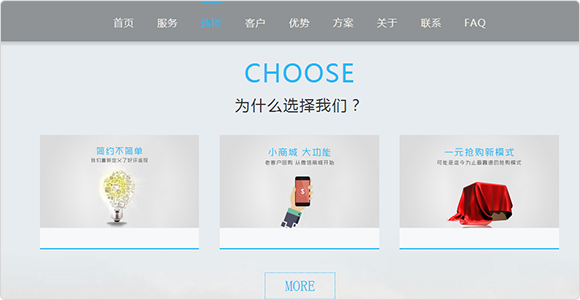
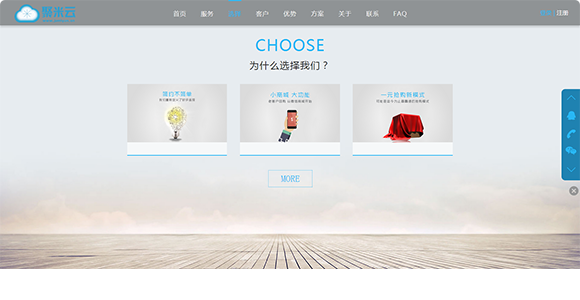
5.21

diff --git a/css/index.less b/css/index.less
@@ -1,5 +1,4 @@
 body{
-  position: relative;
   margin: 0;
 }
 #wrap{
@@ -10,12 +9,20 @@ body{
     margin: 50px 0;
     text-align: center;
   }
+  .title2{
+    font-size: 14px;
+    color:#999;
+    margin-bottom: 60px;
+  }
+  .title1{
+    margin: 50px 0 30px;
+  }
 }
-//.section-wrap{ width:100%;min-height: ~"calc(100vh - 110px)";overflow:visible;transition:transform 1s cubic-bezier(0.86,0,0.03,1);}
-.section-wrap .section{ position:relative; width:100%;  background-repeat:no-repeat;}
-.section-wrap .section-1{height:590px;}
-.section-wrap .section-2{ background-color:#ffffff;height:780px;}
-.section-wrap .section-3{ background-color:#ffffff;height:540px;}
+.section-wrap{ width:100%;min-height: ~"calc(100vh - 110px)";}
+.section-wrap .section{ width:100%;}
+.section-wrap .section-1{height:584px;}
+.section-wrap .section-2{ background-color:#fff;height:600px;}
+.section-wrap .section-3{ background: url("../images/bg04.png") no-repeat center center;background-size:100%;height:540px;}
 .section-wrap .section-4{ background-color:#f8f8f8;height:670px;}
 #myCarousel{
   img{
@@ -25,30 +32,110 @@ body{
 .section-2{
   .all{
     width:100%;
-    height:66vh;
-    background: url("../images/border.png")no-repeat center;
-    background-size: 100%;
-    position: relative;
-    div{
-      &:first-child{
-        position: absolute;
-        top:35%;
-        left:10%;
+    ul{
+      display:-webkit-box;
+      display:-webkit-flex;
+      display:flex;
+
+      li{
+        width:270px;
+        margin-right: 30px;
+        &:last-child{
+          margin-right: 0;
+        }
+        div{
+          text-align: center;
+          color:#666;
+        }
+        .first{
+          display:-webkit-box;
+          display:-webkit-flex;
+          display:flex;
+          align-items: center;
+          justify-content: center;
+          margin:10px 0 60px;
+          .son{
+            display:-webkit-box;
+            display:-webkit-flex;
+            display:flex;
+            align-items: center;
+            justify-content: center;
+            width:108px;
+            height:108px;
+            div{
+              width:90px;
+              height:90px;
+              border:1px solid #0ca8f5;
+              border-radius: 50%;
+            }
+          }
+        }
+        .second{
+          font-size: 16px;
+          margin-bottom: 40px;
+          font-weight: bold;
+        }
+        .three{
+          font-size: 12px;
+          line-height: 2;
+          text-align: left;
+        }
+        &:first-child{
+          .first>.son>div{
+            background: url("../images/icon014.png")no-repeat center center;
+          }
+        }
+        &:first-child:hover{
+         .first>.son>div{
+              width:108px;
+              height:108px;
+              border: 1px solid #0ca8f5;
+              background: url("../images/icon015.png")no-repeat center center;
+           transition: all ease-in-out 0.20s,background ease-in-out 0.05s;
+         }
+         }
+        &:nth-child(2){
+          .first>.son>div{
+            background: url("../images/icon016.png")no-repeat center center;
+          }
+        }
+      &:nth-child(2):hover{
+        .first>.son>div{
+          width:108px;
+          height:108px;
+          border: 1px solid #0ca8f5;
+          background: url("../images/icon017.png")no-repeat center center;
+          transition: all ease-in-out 0.20s,background ease-in-out 0.05s;
+        }
       }
-      &:nth-child(2){
-        position: absolute;
-        top:5%;
-        left:44%;
-      }
-      &:nth-child(3){
-        position: absolute;
-        top:30%;
-        right:12%;
-      }
-      &:last-child{
-        position: absolute;
-        top:66%;
-        left:44%;
+        &:nth-child(3){
+          .first>.son>div{
+            background: url("../images/icon018.png")no-repeat center center;
+          }
+        }
+        &:nth-child(3):hover{
+          .first>.son>div{
+            width:108px;
+            height:108px;
+            border: 1px solid #0ca8f5;
+            background: url("../images/icon019.png")no-repeat center center;
+            transition: all ease-in-out 0.20s,background ease-in-out 0.05s;
+          }
+        }
+        &:last-child{
+          .first>.son>div{
+            background: url("../images/icon20.png")no-repeat center center;
+          }
+        }
+        &:last-child:hover{
+          .first>.son>div{
+            width:108px;
+            height:108px;
+            border: 1px solid #0ca8f5;
+            background: url("../images/icon021.png")no-repeat center center;
+            transition: all ease-in-out 0.20s,background ease-in-out 0.05s;
+          }
+        }
       }
     }
   }
@@ -61,6 +148,7 @@ body{
     flex-wrap:wrap;
     justify-content: space-between;
     li{
+      background: #fff;
       width:360px;
       height:150px;
       border: 1px solid #e5e5e5;
@@ -94,56 +182,9 @@ body{
   }
 }
 .section-4{
-  .case{
-    display:-webkit-box;
-    display:-webkit-flex;
-    display:flex;
-    flex-wrap:wrap;
-    justify-content: space-between;
-    li{
-      position: relative;
-      box-sizing: border-box;
-      width:555px;
-      height:275px;
-      margin-bottom: 30px;
-      border-radius: 5px;
-      display:-webkit-box;
-      display:-webkit-flex;
-      display:flex;
-      align-items: flex-start;
-      &:hover{
-        box-shadow: 0 0 10px rgba(0,0,0,.4);
-      }
-      &:hover .none{
-        height:90px;
-        transition: height 0.5s;
-        -moz-transition: height 0.5s;
-        -webkit-transition: height 0.5s;
-        -o-transition: height 0.5s;
-      }
-      img{
-        width:100%;
-        height:100%;
-      }
-      .none{
-        width:100%;
-        position: absolute;
-        bottom: 0;
-        background: rgba(0,0,0,.5);
-        height:0;
-        color:#fff;
-        p{
-          text-align: center;
-          margin-top: 15px;
-          font-size: 16px;
-          &:last-child{
-            font-size: 12px;
-          }
-        }
-      }
-      &:last-child,&:nth-child(3){
-        margin-bottom: 0;
-      }
-   }
+  #certify{
+    img{
+      width:100%;
+    }
   }
 }

diff --git a/html/index.html b/html/index.html
@@ -7,14 +7,16 @@
     <!-- 上述3个meta标签*必须*放在最前面，任何其他内容都*必须*跟随其后！ -->
     <link rel="shortcut icon" href="../images/favicon.ico">
     <title>首页 | 武汉海麦金科技有限公司官网</title>
+
+    <!--swiper-->
     <link type="text/css" rel="stylesheet" href="../css/certify.css">
     <link type="text/css" rel="stylesheet"  href="../css/swiper.min.css">
     <script src="../js/swiper.min.js"></script>
-
     <!-- Bootstrap -->
     <link href="https://cdn.bootcss.com/bootstrap/3.3.7/css/bootstrap.min.css" rel="stylesheet">
     <link  type="text/css" rel="stylesheet/less" href="../css/index.less">
     <link  type="text/css" rel="stylesheet/less" href="../css/reset.less">
+
     <!-- HTML5 shim 和 Respond.js 是为了让 IE8 支持 HTML5 元素和媒体查询（media queries）功能 -->
     <!-- 警告：通过 file:// 协议（就是直接将 html 页面拖拽到浏览器中）访问页面时 Respond.js 不起作用 -->
     <!--[if lt IE 9]>
@@ -45,20 +47,34 @@
     </div>
     <div class="section section-2">
         <div class="container">
-            <p class="title">一站式解决方案</p>
+            <p class="title title1">一站式解决方案</p>
+            <p class="title2">海麦金科技依托武汉、厦门、杭州三地，利用独特的地区优势集研发、运营为一体构建整体生态，从方案设计到执行落地，全面服务于客户整体需求，为客户提供一站式整体解决方案</p>
             <div class="all">
-                <div>
-                    <img src="../images/bg05.png" alt="">
-                </div>
-                <div>
-                    <img src="../images/bg06.png" alt="">
-                </div>
-                <div>
-                    <img src="../images/bg07.png" alt="">
-                </div>
-                <div>
-                    <img src="../images/bg08.png" alt="">
-                </div>
+                <ul>
+                    <li>
+                        <div class="first"><div class="son"><div></div></div></div>
+                        <div class="second">研发</div>
+                        <div class="three">武汉是研发中心，拥有一流的软件产品设计和开发团队。作为海麦金科技的技术战略支点，为公司提供电商行业内的全线产品的技术支持。</div>
+                    </li>
+                    <li>
+                        <div class="first"><div class="son"><div></div></div></div>
+                        <div class="second">贸易</div>
+                        <div class="three">厦门是贸易中心，主要是通过跨境电商平台Amazon、Wish、eBay等第三方平台及自建站把产品销售至全球终端客户，致力成为全球化联营先锋。</div>
+                    </li>
+                    <li>
+                        <div class="first"><div class="son"><div></div></div></div>
+                        <div class="second">运营</div>
+                        <div class="three">杭州是运营中心，主要是服务于用户，给运营提供在使用产品中所遇见问题的解决方案，以及利于独特的地理位置优势对产品进行市场推广。
+
+                        </div>
+                    </li>
+                    <li>
+                        <div class="first"><div class="son"><div></div></div></div>
+                        <div class="second">资源</div>
+                        <div class="three">随着行业的发展，公司利用各地区的优势，与大型电商客户形成战略合作伙伴，三地资源共享，紧密配合，协同合作从而达成综合性战略目标
+                            。</div>
+                    </li>
+                </ul>
             </div>
         </div>
     </div>
